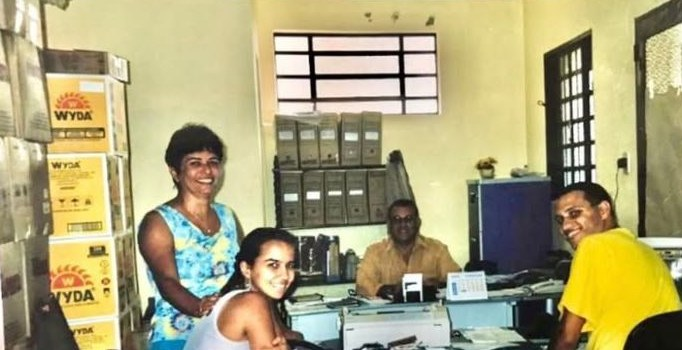
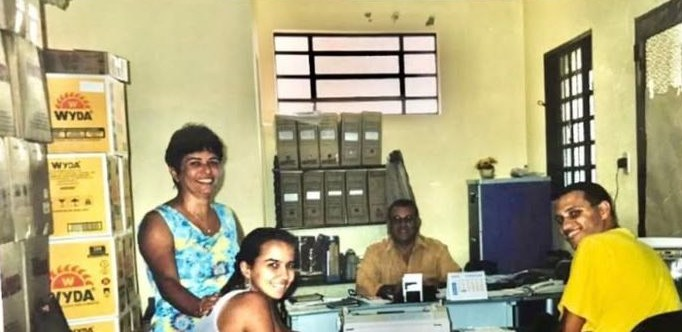
Diferenciais em carrossel vertical no celular e selo Desde 1990 fora da foto
- Celular: itens de Qualidade a Entrega em carrossel vertical animado (pausa ao tocar, respeita redução de movimento)
- Foto da história recortada sem o selo embutido; selo Desde 1990 abaixo da imagem

Claude-Session: https://claude.ai/code/session_01HPzVsB99SzqWwxAHGcYJ4P

diff --git a/app/page.tsx b/app/page.tsx
@@ -136,7 +136,31 @@ export default function HomePage() {
 
       {/* Diferenciais */}
       <section aria-label="Diferenciais" className="border-b border-mist-200 bg-white">
-        <ul className="container-site grid grid-cols-1 gap-6 py-10 sm:grid-cols-2 lg:grid-cols-5">
+        {/* Celular: carrossel vertical animado */}
+        <div className="container-site py-6 sm:hidden">
+          <div className="ticker-window relative h-[84px] overflow-hidden rounded-2xl border border-mist-200 bg-mist-50 motion-reduce:h-auto">
+            <ul className="animate-ticker-y motion-reduce:animate-none">
+              {[...highlights, ...highlights].map(({ icon: Icon, title, text }, i) => (
+                <li
+                  key={`${title}-${i}`}
+                  aria-hidden={i >= highlights.length ? true : undefined}
+                  className={`flex h-[84px] items-center gap-4 px-5 ${i >= highlights.length ? "motion-reduce:hidden" : ""}`}
+                >
+                  <span className="grid size-12 shrink-0 place-items-center rounded-xl bg-navy-800 text-white">
+                    <Icon aria-hidden="true" className="size-6" strokeWidth={1.6} />
+                  </span>
+                  <span className="min-w-0">
+                    <span className="block text-[16px] font-semibold text-navy-800">{title}</span>
+                    <span className="block text-[14px] leading-snug text-ink-500">{text}</span>
+                  </span>
+                </li>
+              ))}
+            </ul>
+          </div>
+        </div>
+
+        {/* Tablet e desktop */}
+        <ul className="container-site hidden gap-6 py-10 sm:grid sm:grid-cols-2 lg:grid-cols-5">
           {highlights.map(({ icon: Icon, title, text }) => (
             <li key={title} className="flex items-center gap-4">
               <span className="grid size-11 shrink-0 place-items-center rounded-xl bg-mist-100 text-navy-800">
@@ -286,7 +310,7 @@ export default function HomePage() {
       <section className="bg-mist-50 py-20 sm:py-28">
         <div className="container-site grid items-center gap-14 lg:grid-cols-2 lg:gap-20">
           <div className="relative">
-            <div className="relative aspect-[682/350] overflow-hidden rounded-3xl">
+            <div className="relative aspect-[682/332] overflow-hidden rounded-3xl">
               <Image
                 src="/images/historia-1990.jpg"
                 alt="Foto antiga da família e da equipe na primeira loja da Disk Marmitinha"
@@ -295,12 +319,12 @@ export default function HomePage() {
                 className="object-cover"
               />
             </div>
-            <div className="absolute -bottom-7 left-6 rounded-2xl bg-navy-800 px-6 py-5 text-white shadow-lift">
-              <p className="font-display text-[32px] leading-none font-semibold">Desde {site.since}</p>
-              <p className="mt-1.5 text-[13px] text-mist-200">Mais de 30 anos de confiança</p>
+            <div className="mt-4 flex flex-wrap items-baseline gap-x-4 gap-y-1 rounded-2xl bg-navy-800 px-6 py-5 text-white">
+              <p className="font-display text-[30px] leading-none font-semibold sm:text-[32px]">Desde {site.since}</p>
+              <p className="text-[14px] text-mist-200">Mais de 30 anos de confiança e tradição</p>
             </div>
           </div>
-          <div className="pt-6 lg:pt-0">
+          <div>
             <SectionHeading
               eyebrow="Nossa história"
               title={<>De fábrica de marmitex a <strong className="font-semibold">casa & estilo</strong></>}

diff --git a/app/globals.css b/app/globals.css
@@ -23,6 +23,16 @@
 
   --shadow-soft: 0 1px 2px rgb(14 35 71 / 0.04), 0 8px 24px rgb(14 35 71 / 0.06);
   --shadow-lift: 0 2px 6px rgb(14 35 71 / 0.06), 0 24px 60px rgb(14 35 71 / 0.14);
+
+  --animate-ticker-y: ticker-y 15s cubic-bezier(0.65, 0, 0.35, 1) infinite;
+  @keyframes ticker-y {
+    0%, 16% { transform: translateY(0); }
+    20%, 36% { transform: translateY(-10%); }
+    40%, 56% { transform: translateY(-20%); }
+    60%, 76% { transform: translateY(-30%); }
+    80%, 96% { transform: translateY(-40%); }
+    100% { transform: translateY(-50%); }
+  }
 }
 
 @layer base {
@@ -85,4 +95,15 @@
 }
 @utility card {
   @apply rounded-2xl border border-mist-200 bg-white;
+}
+
+.ticker-window {
+  mask-image: linear-gradient(180deg, transparent 0, #000 14px, #000 calc(100% - 14px), transparent 100%);
+}
+.ticker-window:hover ul,
+.ticker-window:active ul {
+  animation-play-state: paused;
+}
+@media (prefers-reduced-motion: reduce) {
+  .ticker-window { mask-image: none; }
 }

diff --git a/app/quem-somos/page.tsx b/app/quem-somos/page.tsx
@@ -37,7 +37,7 @@ export default function AboutPage() {
               Tudo começou quando o Sr. José Ferreira deixou o interior de Minas em busca de novas oportunidades na capital. Ao lado da esposa, Maria de Fátima, enfrentou desafios e construiu uma trajetória de muito trabalho, honestidade e dedicação.
             </p>
           </div>
-          <div className="relative aspect-[682/350] overflow-hidden rounded-3xl shadow-lift">
+          <div className="relative aspect-[682/332] overflow-hidden rounded-3xl shadow-lift">
             <Image
               src="/images/historia-1990.jpg"
               alt="Foto antiga da família e da equipe na primeira loja da Disk Marmitinha"
